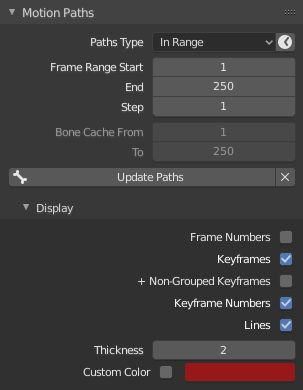
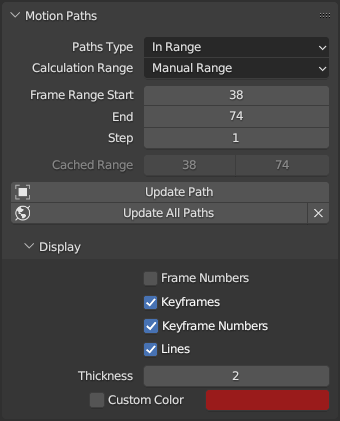
Anim: improve motion paths documentation
New screenshot & better description of the motion paths options.

Manifest Task: T101522

git-svn-id: https://svn.blender.org/svnroot/bf-manual/trunk/blender_docs@9823 c4de1f47-6596-e411-a384-0024e86c2797

diff --git a/manual/animation/motion_paths.rst b/manual/animation/motion_paths.rst
@@ -61,43 +61,53 @@ Paths Type
    :Around Frame:
       Display paths of points within a fixed number of frames around the current frame.
       When you enable this button, you get paths for a given number of frames before and after the current one
-      (again, as with ghosts).
    :In Range:
       Display paths of points within specified range.
 
       .. _bpy.ops.pose.paths_range_update:
 
-      Update Range from Scene (Clock Icon)
-         Updates the display frame range from the scene frame range.
+.. _bpy.types.AnimVizMotionPaths.range:
+
+Calculation Range
+   The range of the motion path. Only active when *Paths Type* is set to
+   *In Range*. Changing this option only takes effect when updating the path, via
+   the *Update Path* or *Update All Paths* buttons.
+
+   :All Keys:
+      Generate a motion path ranging from the first keyframe to the last. Only
+      the keys of the active object / bone are considered.
+   :Selected Keys:
+      Same as *All Keys* except that it ranges from the first to the last
+      *selected* keyframe.
+   :Scene Frame Range:
+      Use the start & end frames of the scene, or the
+      :ref:`preview range <graph-preview-range>` if active.
+   :Manual Range:
+      Manually set the start and end frame.
 
 .. _bpy.types.AnimVizMotionPaths.frame_start:
 .. _bpy.types.AnimVizMotionPaths.frame_end:
 
 Frame Range Start, End
    Starting and Ending frame of range of paths to display/calculate
-   (not for *Around Current Frame* onion skinning method).
+   (not for the *Around Current Frame* type).
+
+   Although the start and end frame are always editable, updating the motion
+   path will change these according to the *Calculation Range* setting. To
+   ensure your chosen frame range is maintained, choose *Manual Range* there.
 
 .. _bpy.types.AnimVizMotionPaths.frame_before:
 .. _bpy.types.AnimVizMotionPaths.frame_after:
 
 Frame Range Before, After
    Number of frames to show before and after the current frame
-   (only for *Around Current Frame* onion skinning method).
+   (only for the *Around Current Frame* type).
 
 .. _bpy.types.AnimVizMotionPaths.frame_step:
 
 Step
    Allows displaying one point for every *n* frames on the path.
    Mostly useful when you enable the frame number display (see below), to avoid cluttering the 3D Viewport.
-
-.. _bpy.types.AnimVizMotionPaths.range:
-
-Calculation Range
-   The method to choose the upper and lower bounds of Motion Paths.
-
-   :Scene Frame Range: Calculates Motion Paths for the entire Scene or Preview frame duration.
-   :Selected Keys: Calculates Motion Paths for the range of the first selected keyframe to the last keyframe.
-   :All Keys: Calculates Motion Paths from the first keyframe to the last keyframe.
 
 .. _bpy.types.MotionPath.frame_start:
 .. _bpy.types.MotionPath.frame_end:
